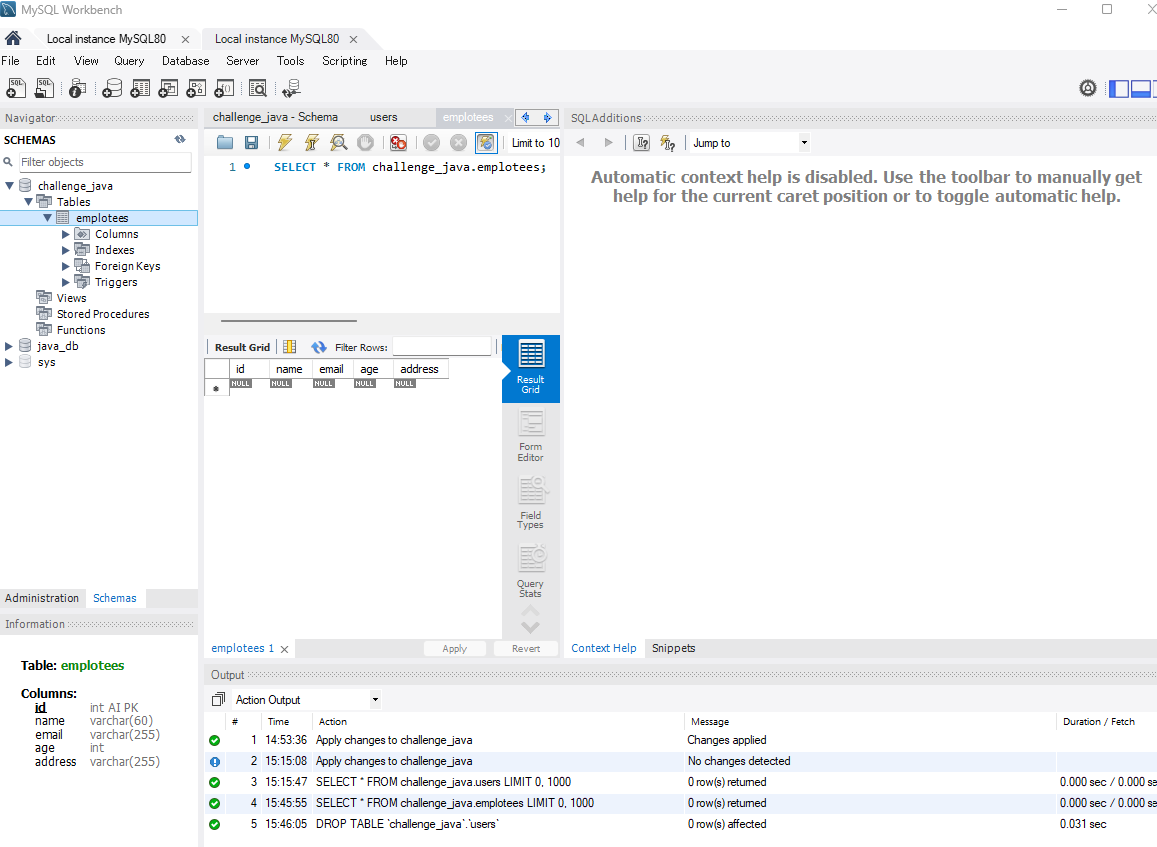
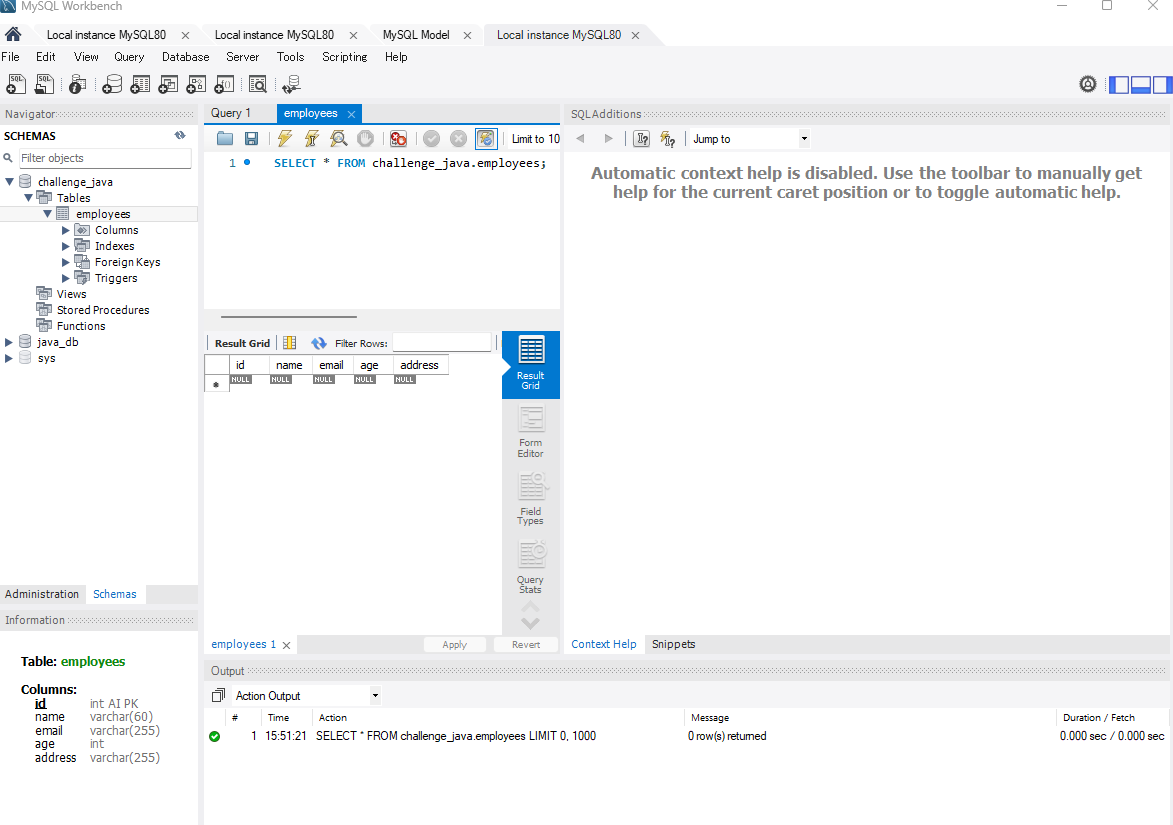
社員テーブルを作成しよう修正

diff --git a/kadai_004/Employees_Chapter04.java b/kadai_004/Employees_Chapter04.java
@@ -23,7 +23,7 @@ public class Employees_Chapter04 {
 			statement = con.createStatement();
 			
 			String sql = """
-						 CREATE TABLE IF NOT EXISTS emplotees (
+						 CREATE TABLE IF NOT EXISTS employees (
 						 	id INT(11) NOT NULL AUTO_INCREMENT PRIMARY KEY,
 						 	name VARCHAR(60) NOT NULL,
 						 	email VARCHAR(255) NOT NULL,
